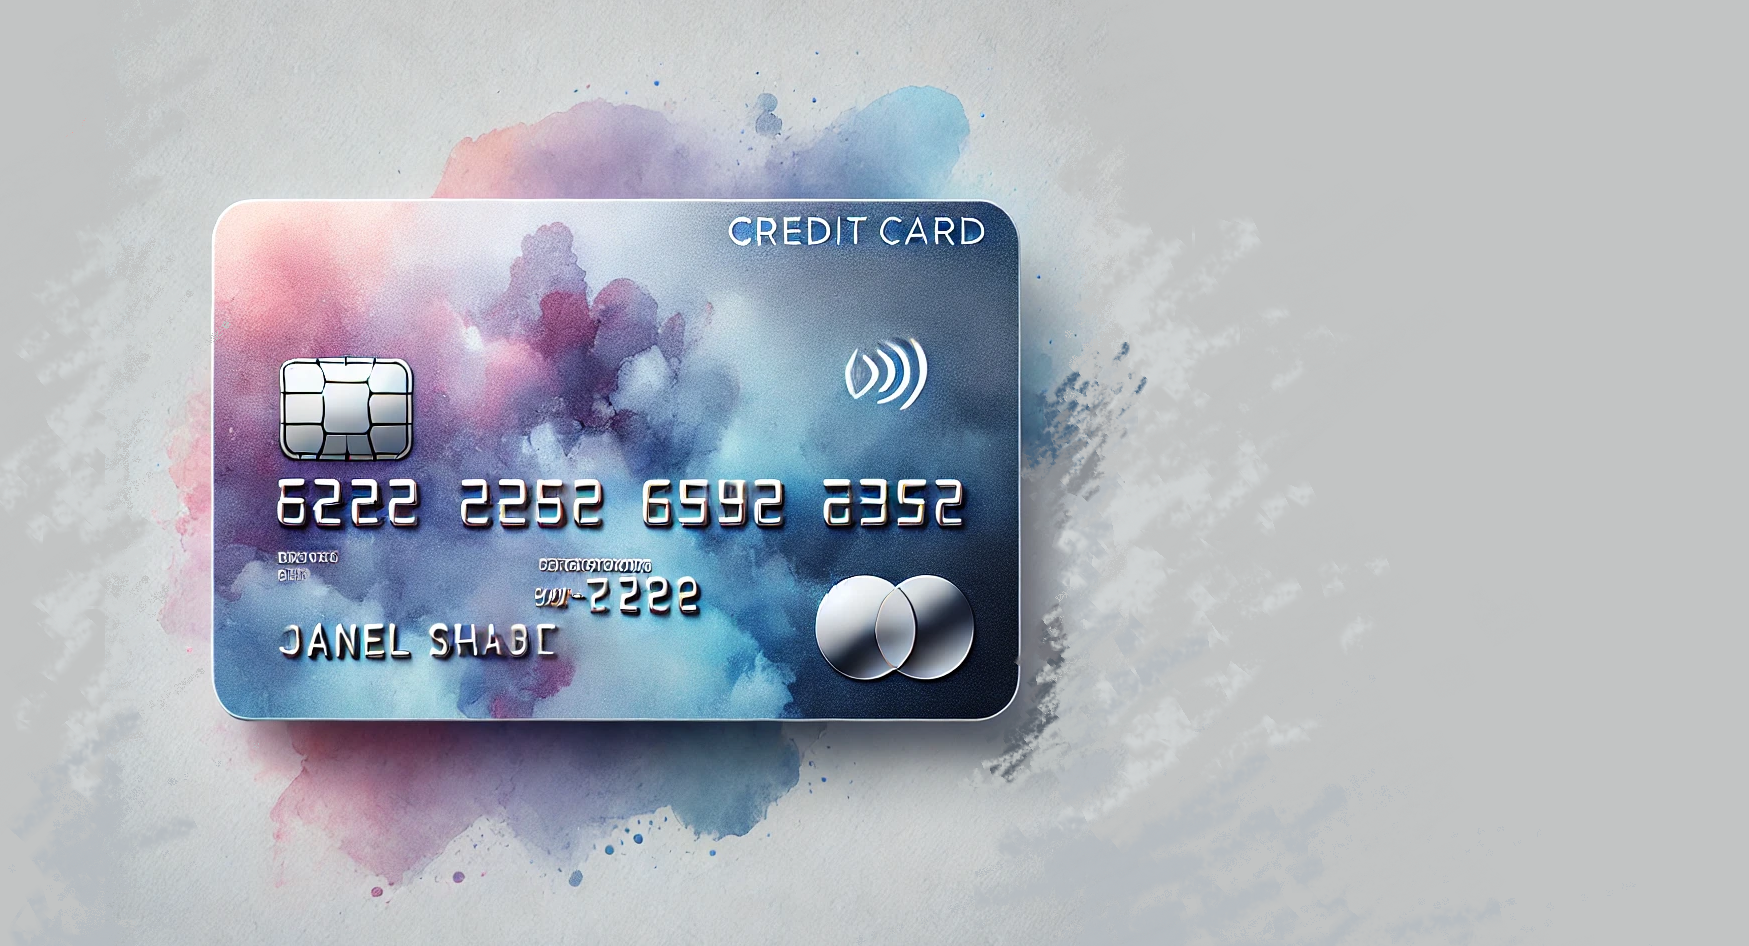
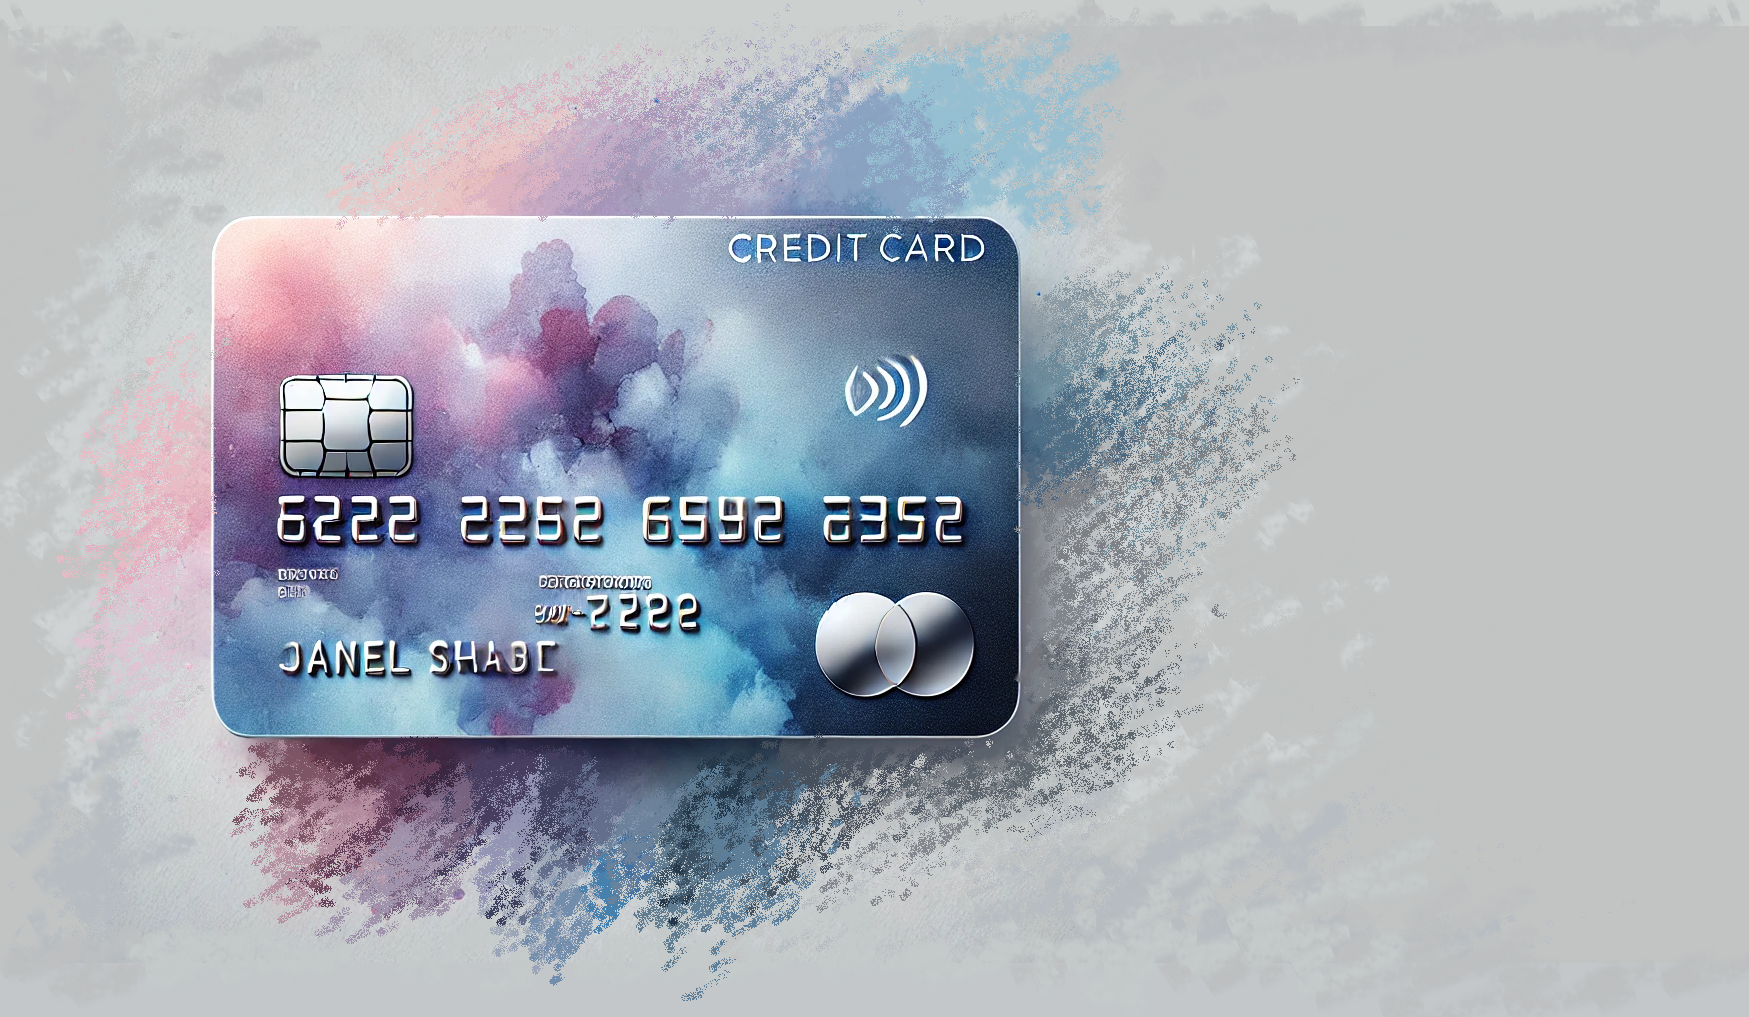
ultimas modificaciones

Changed region(s): [[0.0309, 0.0307, 0.741, 0.9503], [0.1852, 0.1533, 0.247, 0.2146]]

diff --git a/FrontEnd/src/app/services/producto.service.ts b/FrontEnd/src/app/services/producto.service.ts
@@ -1,33 +1,40 @@
 import { Injectable } from '@angular/core';
 import { HttpClient } from '@angular/common/http';
-import { Observable } from 'rxjs';
+import { Observable, Subject } from 'rxjs';
+import { tap } from 'rxjs/operators';
+import { Product } from './producto.model'; 
 
 @Injectable({
   providedIn: 'root',
 })
-
 export class ProductoService {
   private apiProducto = "http://localhost:5184/api/Products";
+  private productosActualizados = new Subject<void>();
 
   constructor(private http: HttpClient) {}
 
-  getProductos(): Observable<any[]>{
-    return this.http.get<any[]>(this.apiProducto);
+  getProductos(): Observable<Product[]> {
+    return this.http.get<Product[]>(this.apiProducto);
+  }
+  
+
+  getProducto(id: number): Observable<Product> {
+    return this.http.get<Product>(`${this.apiProducto}/${id}`);
   }
 
-  getProducto(id: number): Observable<any>{
-    return this.http.get<any[]>(`${this.apiProducto}/${id}`);
+  crearProducto(producto: Product): Observable<Product> {
+    return this.http.post<Product>(this.apiProducto, producto).pipe(
+      tap(() => {
+        this.productosActualizados.next();  
+      })
+    );
   }
 
-  crearProducto(producto: any): Observable<any>{
-    return this.http.post<any>(this.apiProducto, producto);
+  getActualizacionesProductos(): Observable<void> {
+    return this.productosActualizados.asObservable();
   }
 
-  actualizarProducto(id: number, producto: any): Observable<any>{
-    return this.http.put<any>(`${this.apiProducto}/${id}`, producto);
-  }
-
-  eliminarProducto(id: number): Observable<any>{
-    return this.http.delete<any>(`${this.apiProducto}/${id}`);
+  eliminarProducto(id: number): Observable<void> {
+    return this.http.delete<void>(`${this.apiProducto}/${id}`);
   }
 }

diff --git a/FrontEnd/src/app/components/producto-form/producto-form.component.ts b/FrontEnd/src/app/components/producto-form/producto-form.component.ts
@@ -2,6 +2,7 @@ import { Component } from '@angular/core';
 import { CommonModule } from '@angular/common';
 import { FormsModule } from '@angular/forms';
 import { ProductoService } from '../../services/producto.service';
+import { Product } from '../../services/producto.model'; 
 
 @Component({
   selector: 'app-producto-form',
@@ -11,21 +12,21 @@ import { ProductoService } from '../../services/producto.service';
   styleUrl: './producto-form.component.css'
 })
 export class ProductoFormComponent {
-  producto={
-    nombre: "",
-    precio: 0
-  }
+  producto: Product = {  
+    id: 0, 
+    name: '',
+    descripcion: '',
+    price: 0, 
+    stock: 0
+  };
 
   constructor(private productoService: ProductoService){}
 
-  saveProduct(): void{
-    const newProduct = {nombre:this.producto.nombre,
-                        precio:this.producto.precio
-                       };
-    this.productoService.crearProducto(newProduct).subscribe(()=>{
-      alert("Producro agregado correctamente");
-      this.producto ={nombre: "", precio: 0};
-    })
+  saveProduct(): void {
+    this.productoService.crearProducto(this.producto).subscribe(() => {
+      alert("Producto agregado correctamente");
+      this.producto = { id: 0, name: "", descripcion: "", price: 0, stock: 0 };
+    });
   }
 
 }

diff --git a/FrontEnd/src/app/components/producto-form/producto-form.component.html b/FrontEnd/src/app/components/producto-form/producto-form.component.html
@@ -1,11 +1,19 @@
 <form>
     <div class="mb-3">
         <label class="form-label" for="nombre">Nombre:</label>
-        <input id="nombre" name="nombre" class="form-control" type="text" [(ngModel)]="producto.nombre" required/>
+        <input id="nombre" name="nombre" class="form-control" type="text" [(ngModel)]="producto.name" required/>
+    </div>
+    <div class="mb-3">
+        <label class="form-label" for="descripcion">Descripción:</label>
+        <input id="descripcion" name="descripcion" class="form-control" type="text" [(ngModel)]="producto.descripcion" required/>
     </div>
     <div class="mb-3">
         <label class="form-label" for="precio">Precio:</label>
-        <input id="precio" name="precio" class="form-contol" type="number" [(ngModel)]="producto.precio" required/>
+        <input id="precio" name="precio" class="form-control" type="number" [(ngModel)]="producto.price" required/>
+    </div>
+    <div class="mb-3">
+        <label class="form-label" for="stock">Stock:</label>
+        <input id="stock" name="stock" class="form-control" type="number" [(ngModel)]="producto.stock" required/>
     </div>
     <button class="btn btn-success" type="button" (click)="saveProduct()">Guardar</button>
 </form>

diff --git a/FrontEnd/src/app/components/producto-list/producto-list.component.ts b/FrontEnd/src/app/components/producto-list/producto-list.component.ts
@@ -4,7 +4,7 @@ import { Router } from '@angular/router';
 import { ProductoService } from '../../services/producto.service';
 import { ProductoFormComponent } from '../producto-form/producto-form.component';
 import { isPlatformBrowser } from '@angular/common';
-
+import { Product } from '../../services/producto.model';
 
 @Component({
   selector: 'app-producto-list',
@@ -27,10 +27,17 @@ export class ProductoListComponent implements OnInit {
 
   ngOnInit(): void {
     this.obtenerProductos();
+    this.productoService.getActualizacionesProductos().subscribe(() => {
+      this.obtenerProductos();
+    });
   }
+
   obtenerProductos(): void {
     this.productoService.getProductos().subscribe(productos => {
+      console.log("Productos recibidos del backend:", productos);  
       this.productos = productos;
+    }, error => {
+      console.error("Error al obtener productos", error);
     });
   }
 
@@ -53,7 +60,7 @@ export class ProductoListComponent implements OnInit {
       }
     }
   }
-  
+
 
   private loadBootstrap() {
     if (typeof window !== 'undefined') {

diff --git a/FrontEnd/src/app/components/producto-list/producto-list.component.html b/FrontEnd/src/app/components/producto-list/producto-list.component.html
@@ -7,20 +7,25 @@
       <tr>
         <th>ID</th>
         <th>Nombre</th>
+        <th>Descripcion</th>
+        <th>Categoria</th>
         <th>Precio</th>
         <th>Acciones</th>
       </tr>
     </thead>
     <tbody>
-      <tr *ngFor="let producto of productos">
-        <td>{{ producto.id }}</td>
-        <td>{{ producto.nombre }}</td>
-        <td>{{ producto.precio }}</td>
+      <tr *ngFor="let product of productos"> 
+        <td>{{ product.id }}</td>
+        <td>{{ product.name }}</td>
+        <td>{{ product.descripcion}}</td>
+        <td>{{ product.categoria}}</td>
+        <td>{{ product.price }}</td> 
         <td>
-          <button class="deleteProduct" (click)="eliminarProducto(producto.id)">❌</button>
+          <button class="deleteProduct" (click)="eliminarProducto(product.id)">❌</button>
         </td>
-      </tr>
+      </tr>    
     </tbody>
+    
   </table>
 
   <!--Modal de añadir producto-->

diff --git a/FrontEnd/src/app/components/transaccion-form/transaccion-form.component.spec.ts b/FrontEnd/src/app/components/transaccion-form/transaccion-form.component.spec.ts
@@ -1,0 +1,23 @@
+import { ComponentFixture, TestBed } from '@angular/core/testing';
+
+import { TransaccionFormComponent } from './transaccion-form.component';
+
+describe('TransaccionFormComponent', () => {
+  let component: TransaccionFormComponent;
+  let fixture: ComponentFixture<TransaccionFormComponent>;
+
+  beforeEach(async () => {
+    await TestBed.configureTestingModule({
+      imports: [TransaccionFormComponent]
+    })
+    .compileComponents();
+
+    fixture = TestBed.createComponent(TransaccionFormComponent);
+    component = fixture.componentInstance;
+    fixture.detectChanges();
+  });
+
+  it('should create', () => {
+    expect(component).toBeTruthy();
+  });
+});

diff --git a/FrontEnd/src/app/components/transaccion-list/transaccion-list.component.spec.ts b/FrontEnd/src/app/components/transaccion-list/transaccion-list.component.spec.ts
@@ -1,0 +1,23 @@
+import { ComponentFixture, TestBed } from '@angular/core/testing';
+
+import { TransaccionListComponent } from './transaccion-list.component';
+
+describe('TransaccionListComponent', () => {
+  let component: TransaccionListComponent;
+  let fixture: ComponentFixture<TransaccionListComponent>;
+
+  beforeEach(async () => {
+    await TestBed.configureTestingModule({
+      imports: [TransaccionListComponent]
+    })
+    .compileComponents();
+
+    fixture = TestBed.createComponent(TransaccionListComponent);
+    component = fixture.componentInstance;
+    fixture.detectChanges();
+  });
+
+  it('should create', () => {
+    expect(component).toBeTruthy();
+  });
+});

diff --git a/FrontEnd/src/app/components/page-login/log.component.css b/FrontEnd/src/app/components/page-login/log.component.css
@@ -4,11 +4,13 @@
     height: 92vh;
 }
 
-.login-wrapper img {
-    width: 100%;
-    height: 100%;
+/*.login-wrapper img {
+    top: 0;
+    margin-top: -41px;
+    width: 1308px;
+    height: 869px;
     object-fit: cover;
-}
+}*/
 
 .login-container {
     position: absolute;
@@ -48,4 +50,8 @@ button {
 
 button:disabled {
     background-color: #ccc;
+}
+
+main{
+    padding: 1rem;
 }

diff --git a/FrontEnd/src/app/components/page-login/log.component.html b/FrontEnd/src/app/components/page-login/log.component.html
@@ -1,5 +1,5 @@
 <div class="login-wrapper">
-    <img src="assets/tarjeta3.png" alt="Tarjeta">
+    <img src="assets/tarjeta3.png" alt="Tarjeta" style="    margin-top: -32px;">
     <div class="login-container">
         <h2>Login</h2>
         <form (ngSubmit)="aceptar()" #loginForm="ngForm">

diff --git a/FrontEnd/src/app/components/transaccion-form/transaccion-form.component.ts b/FrontEnd/src/app/components/transaccion-form/transaccion-form.component.ts
@@ -1,0 +1,11 @@
+import { Component } from '@angular/core';
+
+@Component({
+  selector: 'app-transaccion-form',
+  imports: [],
+  templateUrl: './transaccion-form.component.html',
+  styleUrl: './transaccion-form.component.css'
+})
+export class TransaccionFormComponent {
+
+}

diff --git a/FrontEnd/src/app/components/transaccion-list/transaccion-list.component.ts b/FrontEnd/src/app/components/transaccion-list/transaccion-list.component.ts
@@ -1,0 +1,11 @@
+import { Component } from '@angular/core';
+
+@Component({
+  selector: 'app-transaccion-list',
+  imports: [],
+  templateUrl: './transaccion-list.component.html',
+  styleUrl: './transaccion-list.component.css'
+})
+export class TransaccionListComponent {
+
+}

diff --git a/FrontEnd/src/index.html b/FrontEnd/src/index.html
@@ -7,7 +7,7 @@
   <meta name="viewport" content="width=device-width, initial-scale=1">
   <link rel="icon" type="image/x-icon" href="favicon.ico">
 </head>
-<body style="background-color: #C2C4C4;">
+<body style="background-color: #CCD1CF;">
   
   <app-root></app-root>
 </body>
